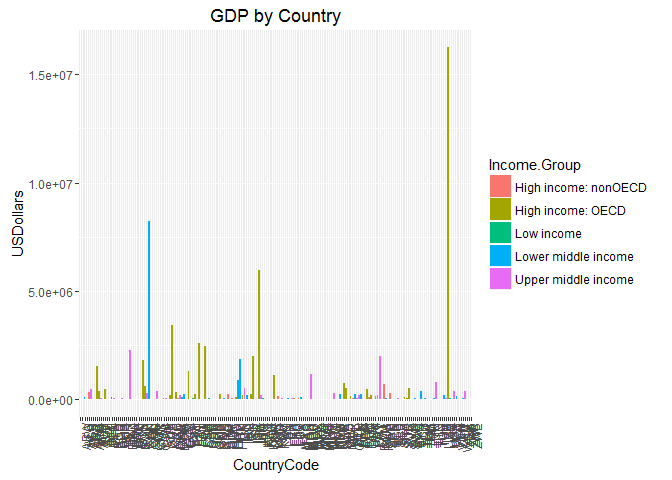
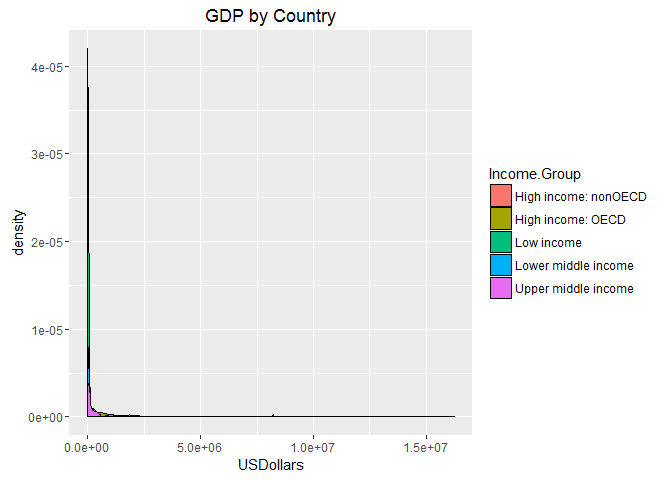
density plot

diff --git a/Paper/Afrye_Week6CaseStudy.md b/Paper/Afrye_Week6CaseStudy.md
@@ -2170,9 +2170,11 @@ ranking of 91.91304 and average USDollars of $104,349.80(Million).
 
 #### Plot the GDP for all of the countries. Use ggplot2 to color your plot by Income Group.
 
-    ggplot(data=Products_M_Education, aes(x=CountryCode,y=USDollars, fill=Income.Group)) + geom_bar(stat="identity") + ggtitle("GDP by Country") + theme(axis.text.x=element_text(angle=90,hjust=1))
+    ggplot(data=Products_M_Education, aes(USDollars, fill=Income.Group)) + geom_density() + ggtitle("GDP by Country") 
 
 ![](Afrye_Week6CaseStudy_files/figure-markdown_strict/Q4-1.png)<!-- -->
+
+    #+ theme(axis.text.x=element_text(angle=90,hjust=1))
 
 In this Bar Chart, we may observe the extreme outlier in the High
 Income: OECD caused by USA GDP. It is color-coded to highlight the
